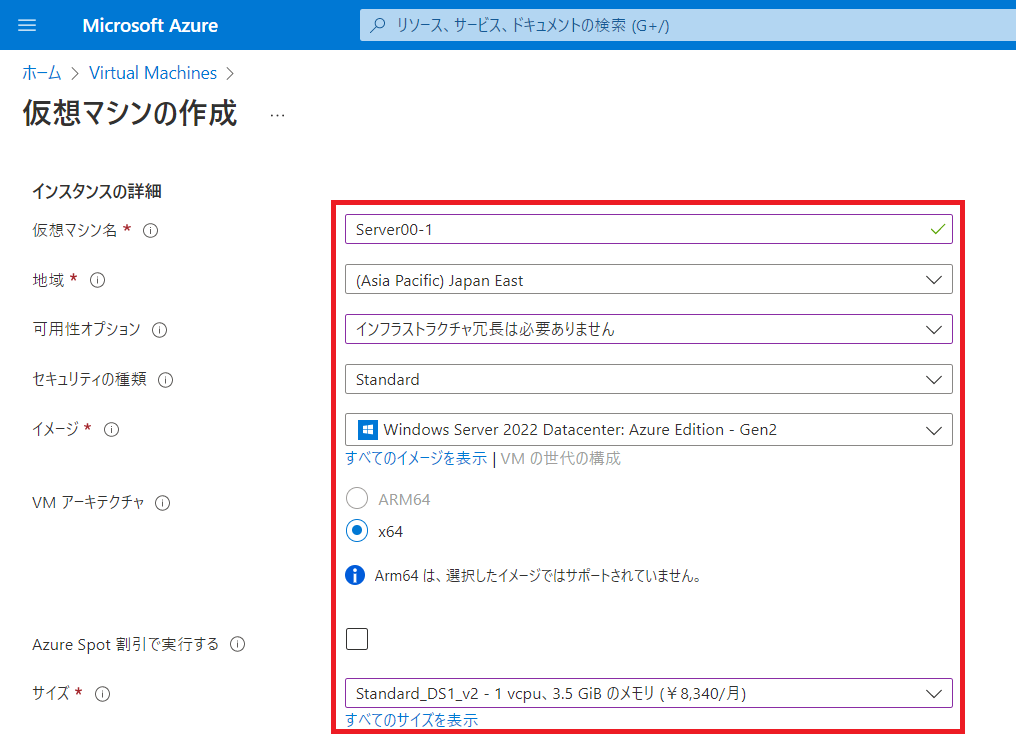
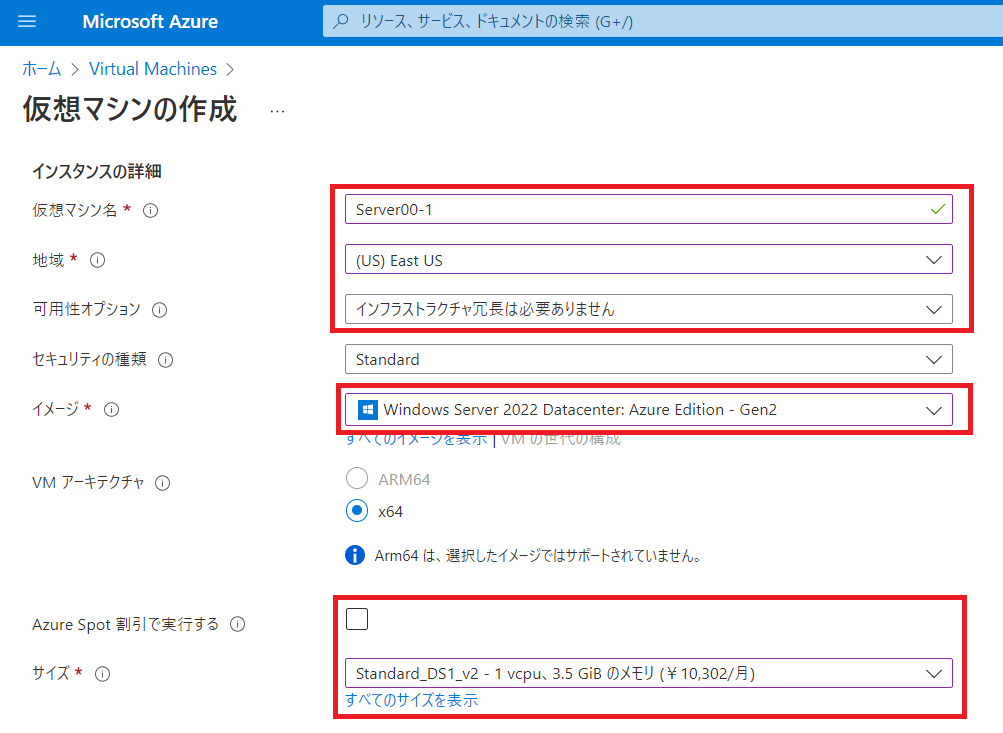
update

diff --git a/LabManual/Lab01_01_Create_Virtual_Machine.md b/LabManual/Lab01_01_Create_Virtual_Machine.md
@@ -64,10 +64,10 @@ lab:
      | **設定**| **値**|
      | :--- | :--- |
      | 仮想マシン名 | **Server##-1** |
-     | 地域| **(Asia Pacific) Japan East** |
+     | 地域| **(US) East US** |
      | 可用性オプション | **インフラストラクチャ冗長は必要ありません** |
      | イメージ | **Windows Server 2022 Datacenter: Azure Edition - Gen2** |
-     | Azure スポット インスタンス | **チェックなし** |
+     | Azure Spot 割引で実行する | **チェックなし** |
      | サイズ | **Standard_DS1_V2** |
 
      > 注：サイズが見つからない場合は、「すべてのサイズを表示」から検索してください。
